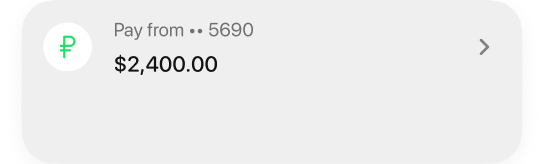
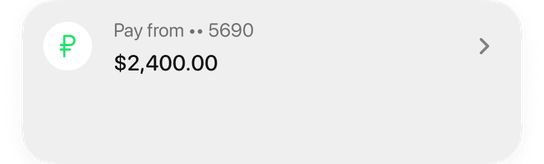
Match EN card settings and add momentum to the settings scroll

diff --git a/components/sections/cases/MoodFlow.tsx b/components/sections/cases/MoodFlow.tsx
@@ -10,8 +10,12 @@ import { FlipCard, NumberChip } from "./FlipCard";
 
 const WIDTH = 350;
 const HEIGHT = 436;
+const PHONE_SCALE = 272 / 402;
 const CARD_WIDTH = 217.871;
 const CARD_SCALE = CARD_WIDTH / 322;
+const CARD_HEADER_HEIGHT = 578 * PHONE_SCALE;
+const SETTINGS_TOP = CARD_HEADER_HEIGHT + 69 * PHONE_SCALE;
+const SETTINGS_SCROLL = 536 * PHONE_SCALE;
 const DURATION = 26;
 const STOPS = [0, 0.08, 0.17, 0.25, 0.34, 0.43, 0.53, 0.68, 0.79, 0.89, 1];
 
@@ -57,7 +61,7 @@ function ScreenHeader({ premium, sticky, frost, scroll, actionOpacity }: {
         {/* eslint-disable-next-line @next/next/no-img-element */}
         <img src={asset("motion/auth/status-bar.svg")} width={310} height={48} alt="" draggable={false} />
       </div>
-      <DesignArtwork name="sticky-back" width={30} height={30} className="absolute top-[47.36px] left-[10.83px]" />
+      <DesignArtwork name="sticky-back" width={30} height={30} className="absolute top-[47.02px] left-[10.49px]" />
       <motion.div aria-hidden className="absolute top-[61px] left-1/2 h-[3px] w-[28px] -translate-x-1/2" style={{ opacity: dotsOpacity }}>
         <motion.span className="absolute left-0 size-[3px] rounded-full bg-black/25" style={{ opacity: premium }} />
         <motion.span className="absolute left-[19px] size-[3px] rounded-full bg-black/25" style={{ opacity: premiumDotOpacity }} />
@@ -65,7 +69,7 @@ function ScreenHeader({ premium, sticky, frost, scroll, actionOpacity }: {
         <motion.span className="absolute left-0 h-full w-[16px] rounded-full bg-[#131313]" style={{ x: activeDotX }} />
       </motion.div>
       <motion.div aria-hidden className="pointer-events-none absolute inset-x-0 top-[41.95px] h-[40.6px]" style={{ opacity: sticky }}>
-        <div className="absolute top-[8px] left-1/2 h-[25px] w-[36px] -translate-x-1/2">
+        <div className="absolute top-[8.7px] left-1/2 h-[25px] w-[36px] -translate-x-1/2">
           <motion.div className="absolute inset-0" style={{ opacity: activeMiniOpacity }}>
             <DesignArtwork name="card-mini-active" width={36} height={25} />
           </motion.div>
@@ -73,7 +77,7 @@ function ScreenHeader({ premium, sticky, frost, scroll, actionOpacity }: {
             <DesignArtwork name="card-mini" width={36} height={25} />
           </motion.div>
         </div>
-        <div className="absolute top-[7.8px] right-[13.5px] whitespace-nowrap text-right text-[10.83px] leading-[13.53px] font-medium">
+        <div className="absolute top-[8.12px] right-[13.53px] whitespace-nowrap text-right text-[10.83px] leading-[13.53px] font-medium">
           <p>$15,400.50</p>
           <p className="text-[8.12px] leading-[10.83px] font-normal text-[#707070]">Debit •• 3688</p>
         </div>
@@ -115,7 +119,11 @@ function CardActions({ opacity }: { opacity: MotionValue<number> }) {
 }
 
 function LinkedAccount() {
-  return <DesignArtwork name="linked-account" width={272} height={82} alt="Pay from •• 5690, $2,400.00" className="absolute inset-x-0 top-[391.55px]" />;
+  return (
+    <div className="absolute inset-x-0" style={{ top: CARD_HEADER_HEIGHT }}>
+      <DesignArtwork name="linked-account" width={272} height={82} alt="Pay from •• 5690, $2,400.00" />
+    </div>
+  );
 }
 
 const accounts = [
@@ -157,38 +165,55 @@ function Dashboard({ slide, debitScale }: { slide: MotionValue<number>; debitSca
 }
 
 const settings = [
-  { label: "Freeze card", detail: "Off", icon: "freeze" },
-  { label: "Change PIN", icon: "pin" },
-  { label: "Reissue card", icon: "reissue" },
-  { label: "Card statement", icon: "statement" },
-  { label: "Rename", detail: "Debit", icon: "rename" },
-  { label: "Terms & fees", icon: "fees" },
+  { label: "Freeze card", detail: "Off", icon: "freeze", top: 0 },
+  { label: "Change PIN", icon: "pin", top: 60 },
+  { label: "Reissue card", icon: "reissue", top: 120 },
+  { label: "Card statement", icon: "statement", top: 180 },
+  { label: "Rename", detail: "Debit", icon: "rename", top: 256 },
+  { label: "Terms & fees", icon: "fees", top: 316 },
+  { label: "Block card", icon: "block", top: 392 },
 ];
 
 function CardSettings({ frozen, frost }: { frozen: boolean; frost: MotionValue<number> }) {
   const switchColor = useTransform(frost, [0, 1], ["#e3e3e3", "#11ca5f"]);
-  const thumbX = useTransform(frost, [0, 1], [0, 10]);
+  const thumbX = useTransform(frost, [0, 1], [0, 14]);
   return (
-    <div className="absolute inset-x-0 top-[438.24px] min-h-[355px] rounded-t-[21px] bg-white px-[11px] pt-[14px]">
-      <p className="text-[13px] font-medium">Card settings</p>
-      {settings.map(({ label, detail, icon }, i) => (
-        <div key={label} className={`flex min-h-[41px] items-center gap-[8px] text-[10px] ${i >= 4 ? "border-t border-dashed border-black/5" : ""}`}>
-          <DesignArtwork name={`setting-${icon}`} width={30} height={30} className="shrink-0" />
-          <span className="flex-1">{label}{detail && <span className="block text-[9px] text-black/55">{i === 0 && frozen ? "On" : detail}</span>}</span>
-          {i === 0 ? (
-            <motion.span data-freeze-switch={frozen ? "on" : "off"} className="relative h-[19px] w-[36px] rounded-full" style={{ backgroundColor: switchColor }}>
-              <motion.span className="absolute top-[1px] left-[1px] h-[17px] w-[24px] rounded-full bg-white" style={{ x: thumbX }} />
-            </motion.span>
-          ) : <DesignArtwork name="setting-chevron" width={16} height={16} />}
-        </div>
-      ))}
+    <div
+      className="absolute left-0 h-[940px] w-[402px] origin-top-left rounded-t-[32px] bg-white"
+      style={{ top: SETTINGS_TOP, transform: `scale(${PHONE_SCALE})` }}
+    >
+      <p className="absolute top-6 left-4 text-[20px] leading-6 font-medium">Card settings</p>
+      <div className="absolute inset-x-4 top-[68px] h-[436px]">
+        {settings.map(({ label, detail, icon, top }) => (
+          <div key={icon} className="absolute inset-x-0 flex h-11 items-center gap-3 text-[16px] leading-5" style={{ top }}>
+            <DesignArtwork name={`setting-${icon}`} width={44} height={44} className="shrink-0" />
+            <span className={`flex-1 ${icon === "block" ? "text-[#ff3b30]" : ""}`}>
+              {label}
+              {detail && <span className="mt-1 block text-[14px] leading-5 text-[#707070]">{icon === "freeze" && frozen ? "On" : detail}</span>}
+            </span>
+            {icon === "freeze" ? (
+              <motion.span data-freeze-switch={frozen ? "on" : "off"} className="relative h-7 w-[54px] rounded-full" style={{ backgroundColor: switchColor }}>
+                <motion.span className="absolute top-0.5 left-0.5 h-6 w-9 rounded-full bg-white shadow-[0_1px_3px_rgb(0_0_0/0.08)]" style={{ x: thumbX }} />
+              </motion.span>
+            ) : <DesignArtwork name="setting-chevron" width={24} height={24} />}
+          </div>
+        ))}
+        {[240, 376].map((top) => (
+          <div key={top} aria-hidden className="absolute inset-x-0 h-px" style={{ top, background: "repeating-linear-gradient(to right, #efefef 0 6px, transparent 6px 12px)" }} />
+        ))}
+      </div>
     </div>
   );
 }
 
 const screenLift = track([0, 9.3, 10.03, 10.55, 11.03, DURATION], [0, 0, -234, -234, 0, 0], [E, E, E, E, E]);
 const homeSlide = track([0, 11.7, 12.6, 13.5, DURATION], [0, 0, -85, 0, 0], [E, "easeInOut", "easeInOut", E]);
-const detailScroll = track([0, 19.65, 20.52, 21.65, 22.5, DURATION], [0, 0, -366.76, -366.76, 0, 0], [E, "easeInOut", E, "easeInOut", E]);
+// Match the velocity at release, carry the flick into a small overshoot, then settle on the Figma offset.
+const detailScroll = track(
+  [0, 19.65, 19.74, 20.32, 20.52, 21.65, 22.5, DURATION],
+  [0, 0, -45, -SETTINGS_SCROLL - 6.5, -SETTINGS_SCROLL, -SETTINGS_SCROLL, 0, 0],
+  ["linear", [0.32, 0, 0.68, 0.41], [0.34, 0.56, 0.47, 1], "easeInOut", "linear", "easeInOut", "linear"],
+);
 const cardSlide = track([0, 23.02, 23.78, DURATION], [0, 0, -237.49, -237.49], [E, "easeInOut", E]);
 const activatePremium = track([0, 23.44, 23.66, DURATION], [0, 0, 1, 1], "easeInOut");
 const freezeCard = track([0, 21.23, 21.45, DURATION], [0, 0, 1, 1], "easeInOut");
@@ -235,7 +260,7 @@ export function MoodFlow({ label, lab = false, english = false }: { label: strin
   const premium = useTransform(time, (s) => getNumber(activatePremium, s));
   const frost = useTransform(time, (s) => getNumber(freezeCard, s));
   const actionOpacity = useTransform(() => 1 - 0.67 * frost.get() * (1 - premium.get()));
-  const stickyOpacity = useTransform(contentY, [-366.76, -285, -250], [1, 1, 0]);
+  const stickyOpacity = useTransform(contentY, [-285, -250], [1, 0]);
   const progress = useTransform(time, [14.03, 19.65], [0, 1]);
   const lightX = useTransform(progress, STOPS, [0.5, 0.12, 0.22, 0.86, 0.9, 0.37, 0.5, 0.5, 0.65, 0.4, 0.5]);
   const lightY = useTransform(progress, STOPS, [0.5, 0.36, 0.9, 0.78, 0.11, 0.18, 0.5, 0.5, 0.54, 0.43, 0.5]);
